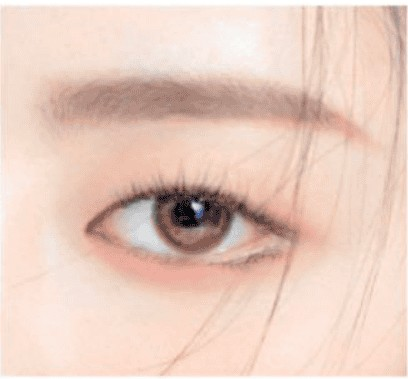
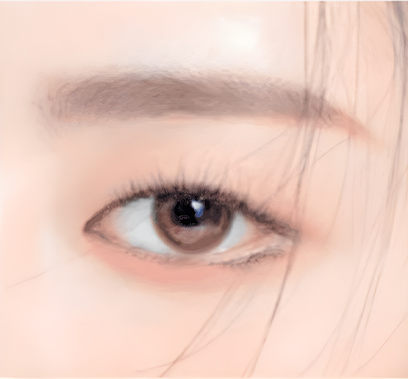
Moving Image 概念封面改为横版展示；药丸尺寸调整（移动端 +10%、桌面端 -10%）；更新 Meitu 项目图片

diff --git a/gallery.js b/gallery.js
@@ -187,13 +187,17 @@
     grid.before(stage);
     stages[def.id]=stage;
   });
+  // Projects whose display artwork reads better as a wide landscape frame.
+  const wideTiles=new Set(['other-3']);
   function layoutArchive(){
     if(!grid.clientWidth)return;
     const mobile=innerWidth<=700,w=grid.clientWidth;
     const slots=mobile?[[46,0,50,.8],[1,120,38,1],[55,390,42,.8],[2,510,47,1.25],[48,750,50,1],[1,880,38,1.25]]:[[43,0,27,.8],[4,95,24,1],[76,150,22,.8],[18,510,29,1.25],[58,610,32,1],[7,880,27,1.25]];
     const scale=w/(mobile?400:1000);let bottom=0;
     [...grid.children].forEach((tile,i)=>{
-      const [x,y,width,ratio]=slots[i%6],top=(y+Math.floor(i/6)*(mobile?1160:1250))*scale;
+      let [x,y,width,ratio]=slots[i%6];
+      const top=(y+Math.floor(i/6)*(mobile?1160:1250))*scale;
+      if(tile.dataset.wide){ratio=1.6;width=mobile?92:46;x=mobile?4:27;}
       tile.style.setProperty('--tile-x',x+'%');tile.style.setProperty('--tile-y',top+'px');tile.style.setProperty('--tile-width',width+'%');tile.style.setProperty('--tile-ratio',ratio);
       const label=tile.querySelector('.tile-label');
       bottom=Math.max(bottom,top+w*width/100/ratio+(label?.offsetHeight||55));
@@ -225,6 +229,7 @@
     if(stageTab)list=[];                        // the stage IS the collection page
     list.forEach((p,i)=>{
       const a=document.createElement('a');a.className='project-tile';a.href=p.href||'#project/'+p.id;a.style.setProperty('--delay',i*55+'ms');
+      if(wideTiles.has(p.id))a.dataset.wide='1';
       a.setAttribute('aria-label',p.title);a.addEventListener('click',()=>{sessionStorage.setItem('portfolio-collection',lastCollection);});
       const media=document.createElement('div');media.className='tile-media';
       const img=document.createElement('img');img.src=freshAsset(p.displayCover||p.image||'assets/cover/interactive-cover.png');img.alt=p.title;img.loading='lazy';media.append(img);

diff --git a/matrix.css b/matrix.css
@@ -153,12 +153,12 @@ a:focus-visible{outline-color:#b5edc2}
 .gallery-page:not(.archive-ready){visibility:hidden}
 @media(min-width:701px){
  .choice-stage .pill-blue{left:74.5%;top:36%}
- .choice-stage .pill-capsule.has-3d,.choice-stage .pill-choice:hover .pill-capsule.has-3d,.choice-stage .pill-choice:focus-visible .pill-capsule.has-3d{width:clamp(82px,10vw,169px);height:clamp(55px,6.69vw,113px)}
+ .choice-stage .pill-capsule.has-3d,.choice-stage .pill-choice:hover .pill-capsule.has-3d,.choice-stage .pill-choice:focus-visible .pill-capsule.has-3d{width:clamp(73.8px,9vw,152.1px);height:clamp(49.5px,6.02vw,101.7px)}
 }
 @media(max-width:700px){
  .choice-stage{top:45%;width:112%}.choice-stage .pill-red{top:30%}.choice-stage .pill-blue{top:37%}
  .choice-label{top:calc(50% + 33vw)}.choice-label strong{font-size:11px}.choice-label em{font-size:8px}.choice-label small{font-size:7px}
- .pill-capsule.has-3d,.pill-choice:hover .pill-capsule.has-3d,.pill-choice:focus-visible .pill-capsule.has-3d{width:42px;height:29px}
+ .pill-capsule.has-3d,.pill-choice:hover .pill-capsule.has-3d,.pill-choice:focus-visible .pill-capsule.has-3d{width:46.2px;height:31.9px}
  .choice-bottom .choice-hint{font-size:7px}.choice-bottom>span:first-child{text-align:left;margin-bottom:8px}
  .gallery-page{padding:0 22px 24px}.gallery-page .gallery-header{padding-top:90px}.collection-intro h1{font-size:24px;letter-spacing:-1px}
  .gallery-page .company-tabs{gap:14px}.gallery-page .project-grid{margin-top:35px}
